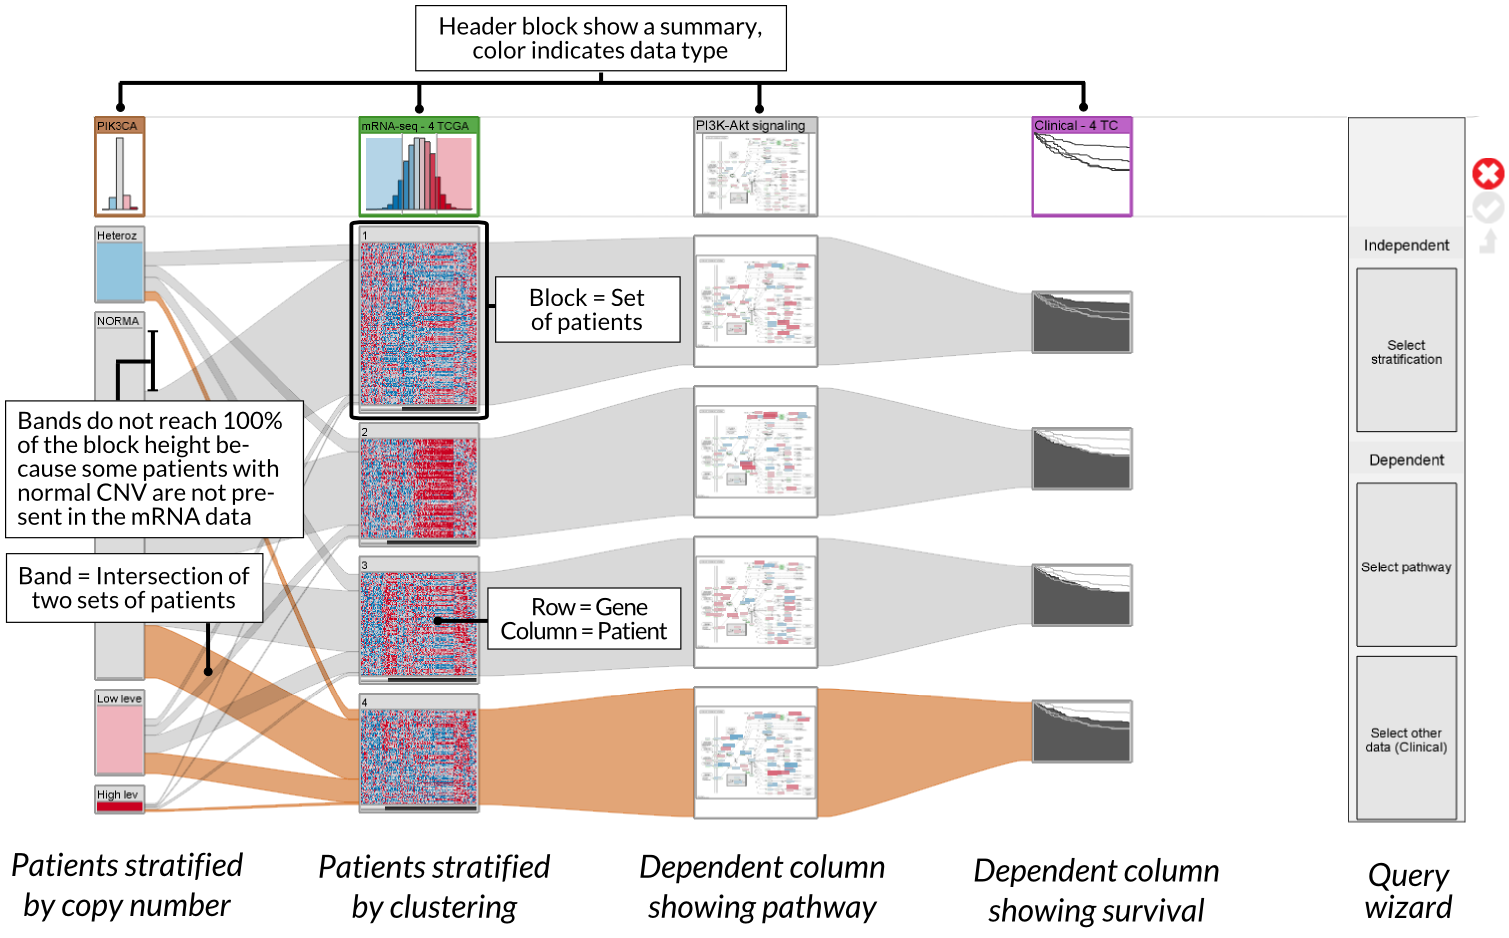
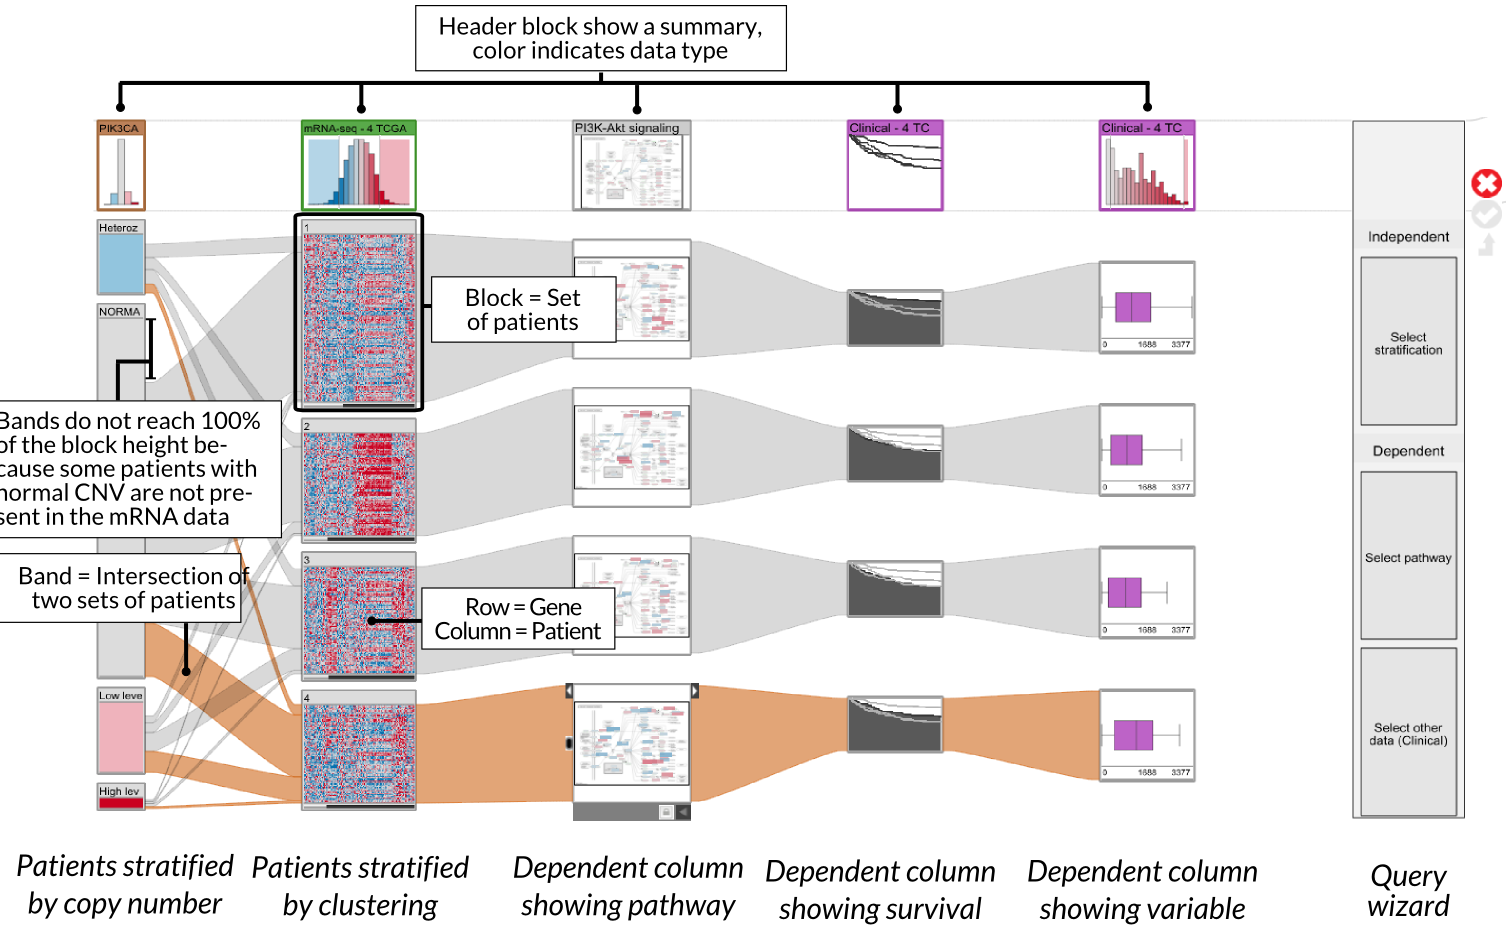
#29 continue

diff --git a/3.1/views/stratomex/stratomex.md b/3.1/views/stratomex/stratomex.md
@@ -12,7 +12,7 @@ StratomeX is a visualization technique for the analysis of multiple stratified d
 Each column in StratomeX consists of multiple data blocks from one of the datasets. The blocks that make up the column are groups or rows, or *stratifications* of the dataset. 
 
  * **Adding columns** 
- Columns can be either added using the [Tour Guide wizard](stratomex/tourguide.md), [LineUp](stratomex/lineup.md), or the [Data-View Integrator](dvi.md).
+ Columns can be either added using the [Query wizard](stratomex.md#Tour_Guide_Wizard_-_Adding_Data), [LineUp](stratomex.md#LineUp), or the [Data-View Integrator](../dvi.md).
  * **Removing columns** 
  Columns can be removed by either using the close icon that is appears when hovering over the header block or by selecting the corresponding option in the right-click context menu of the header block.
  * **Reordering columns** 
@@ -43,10 +43,10 @@ Connection bands show the rows that are shared between connected cluster blocks.
 Dependent columns are special block columns that belong to an existing block column because they derive their grouping. For instance, pathways or clinical data are represented as dependent columns. Note that dependent columns can currently only be added when the rows in StratomeX correspond to samples and the columns to genes. Dependent columns can be added by right-clicking on the header block and selecting one of the following data types:
 
  * **Pathways** 
- When choosing pathways as the type of the dependent column, Caleydo opens a list of pathways with a count how many genes from the block column are contained in each of the pathways. After a particular pathway has been selected, a new column will be added, where a small pathway is shown for each group of the original block column. The nodes inside the pathways are color coded according to the average gene expression value of each group. In addition, by using the context menu on a pathway block, the corresponding pathway can be viewed in [Entourage](/views/pathway/pathway.md).
+ When choosing pathways as the type of the dependent column, Caleydo opens a list of pathways with a count how many genes from the block column are contained in each of the pathways. After a particular pathway has been selected, a new column will be added, where a small pathway is shown for each group of the original block column. The nodes inside the pathways are color coded according to the average gene expression value of each group. In addition, by using the context menu on a pathway block, the corresponding pathway can be viewed in [Entourage](../pathway/pathway.md).
  
  * **Clinical data** 
- After choosing clinical data as the type of the dependent column, Caleydo opens a list of clinical parameters that can be added as a new dependent column. Note that clinical data needs to be loaded in order to use this feature. After selecting a particular clinical parameter, a Kaplan-Meier plot will be opened for each group of the original block column.
+ After choosing clinical data as the type of the dependent column, Caleydo opens a list of clinical parameters that can be added as a new dependent column. Note that clinical data needs to be loaded in order to use this feature. After selecting a particular clinical parameter, a block will be opened for each group of the original block column. By default a Kaplan-Meier plot is shown in each plot, in case of survival data, but the visualization can be switched to BoxPlots and histograms, too. 
 
 [include](views/stratomex/tourguide.md)
 
